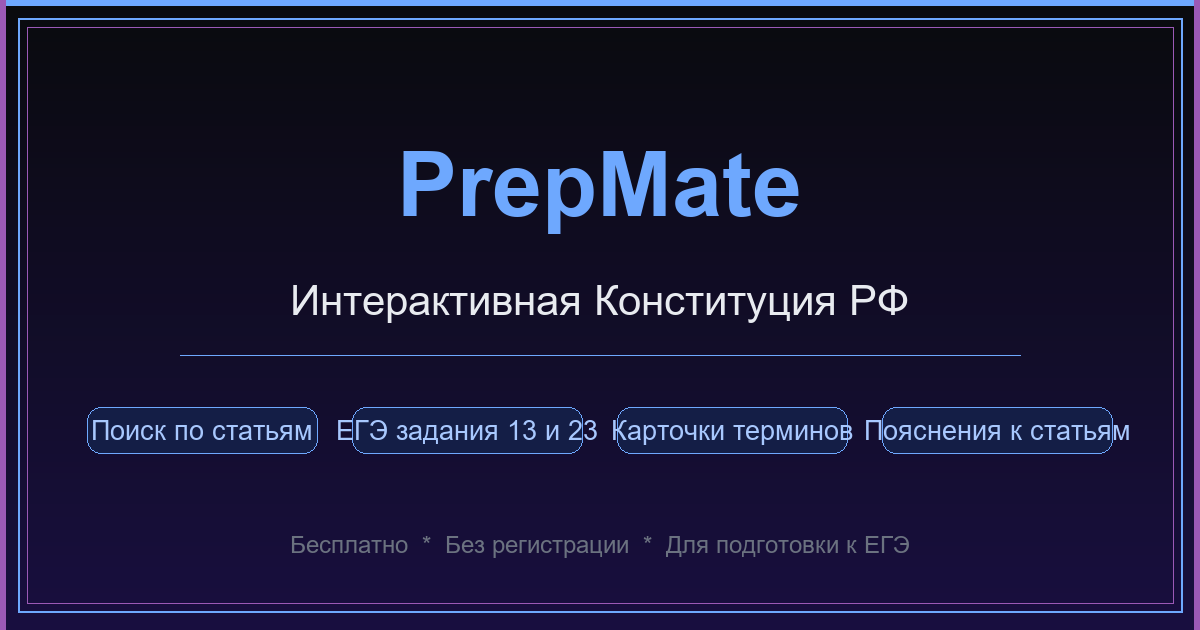
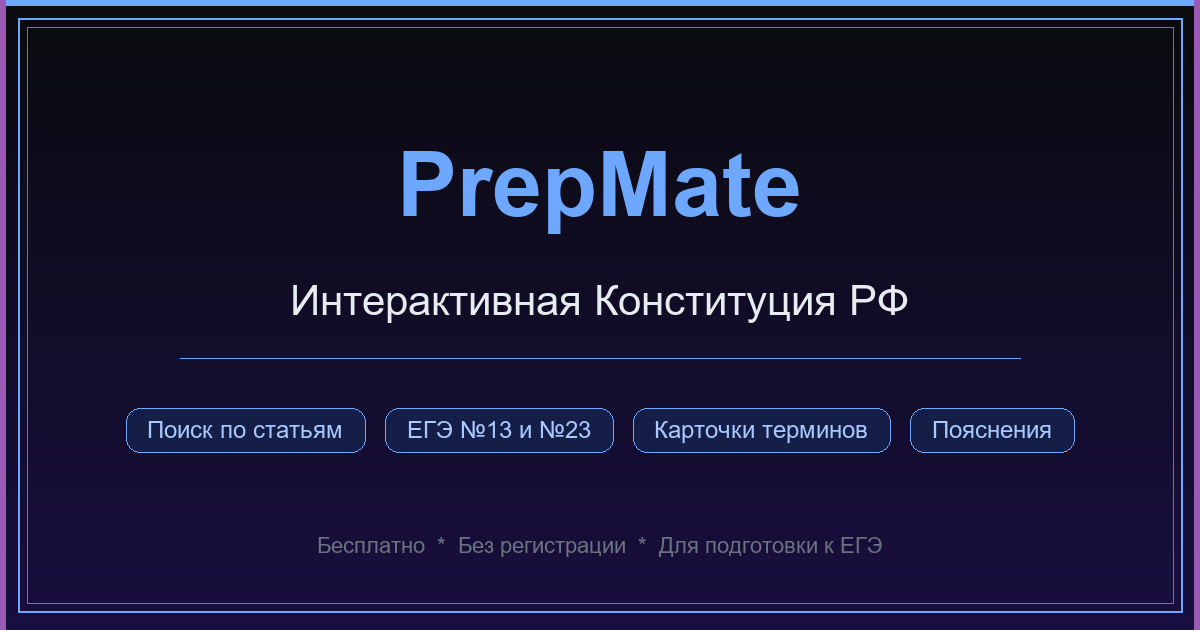
OG-бейджи по размеру текста, водяной знак 15%
- og-image.png: динамическая ширина бейджей по реальному размеру текста — текст больше не вылезает за рамки
- Водяной знак на цитате: opacity 0.12 → 0.15
- SW кэш: v10

Changed region(s): [[0.0617, 0.6333, 0.9558, 0.7238], [0.1542, 0.5429, 0.8325, 0.573], [0.2467, 0.8444, 0.7708, 0.9048]]

diff --git a/app.js b/app.js
@@ -1732,7 +1732,7 @@ function generateQuoteImage(canvas, title, text) {
 
     // === ДИАГОНАЛЬНЫЙ ВОДЯНОЙ ЗНАК ===
     ctx.save();
-    ctx.globalAlpha = 0.12;
+    ctx.globalAlpha = 0.15;
     ctx.fillStyle = '#1a237e';
     ctx.font = 'bold 18px sans-serif';
     ctx.textAlign = 'center';

diff --git a/sw.js b/sw.js
@@ -1,4 +1,4 @@
-const CACHE_NAME = 'prep-mate-v9'; // v9: OG-image, водяной знак 12%, og-теги
+const CACHE_NAME = 'prep-mate-v10'; // v10: OG-image бейджи, водяной знак 15%
 const ASSETS = [
   './',
   './index.html',